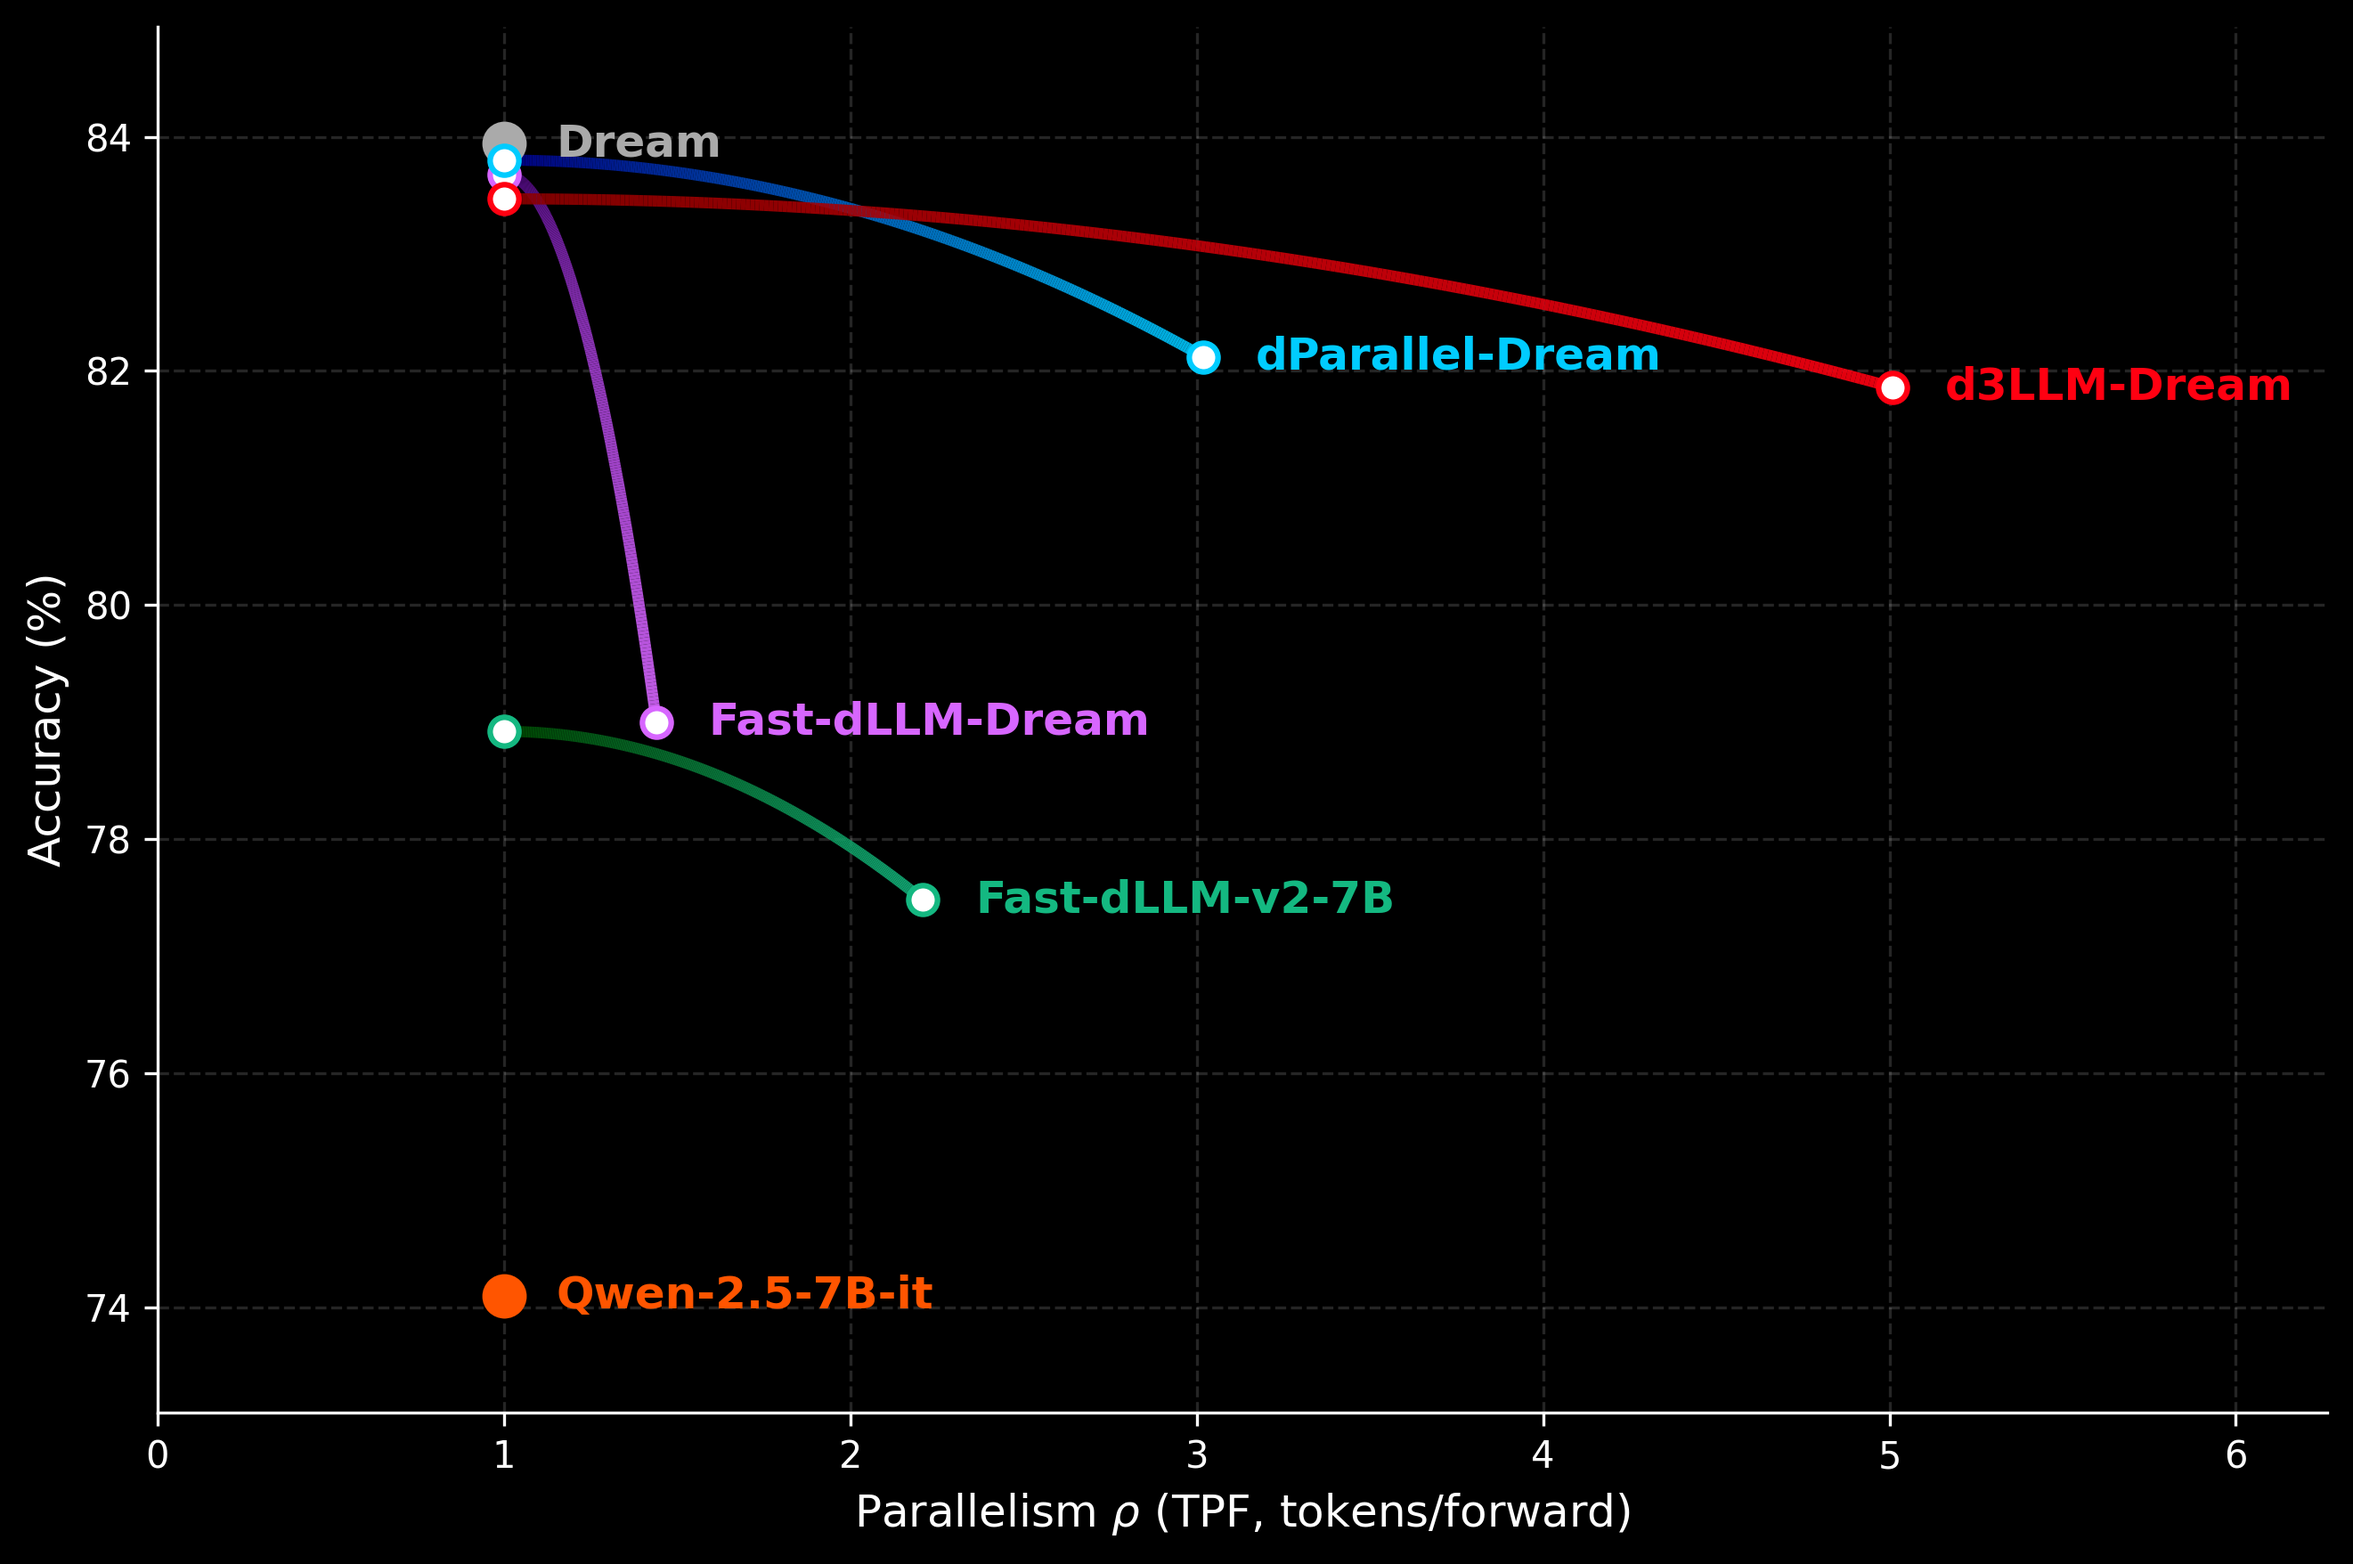
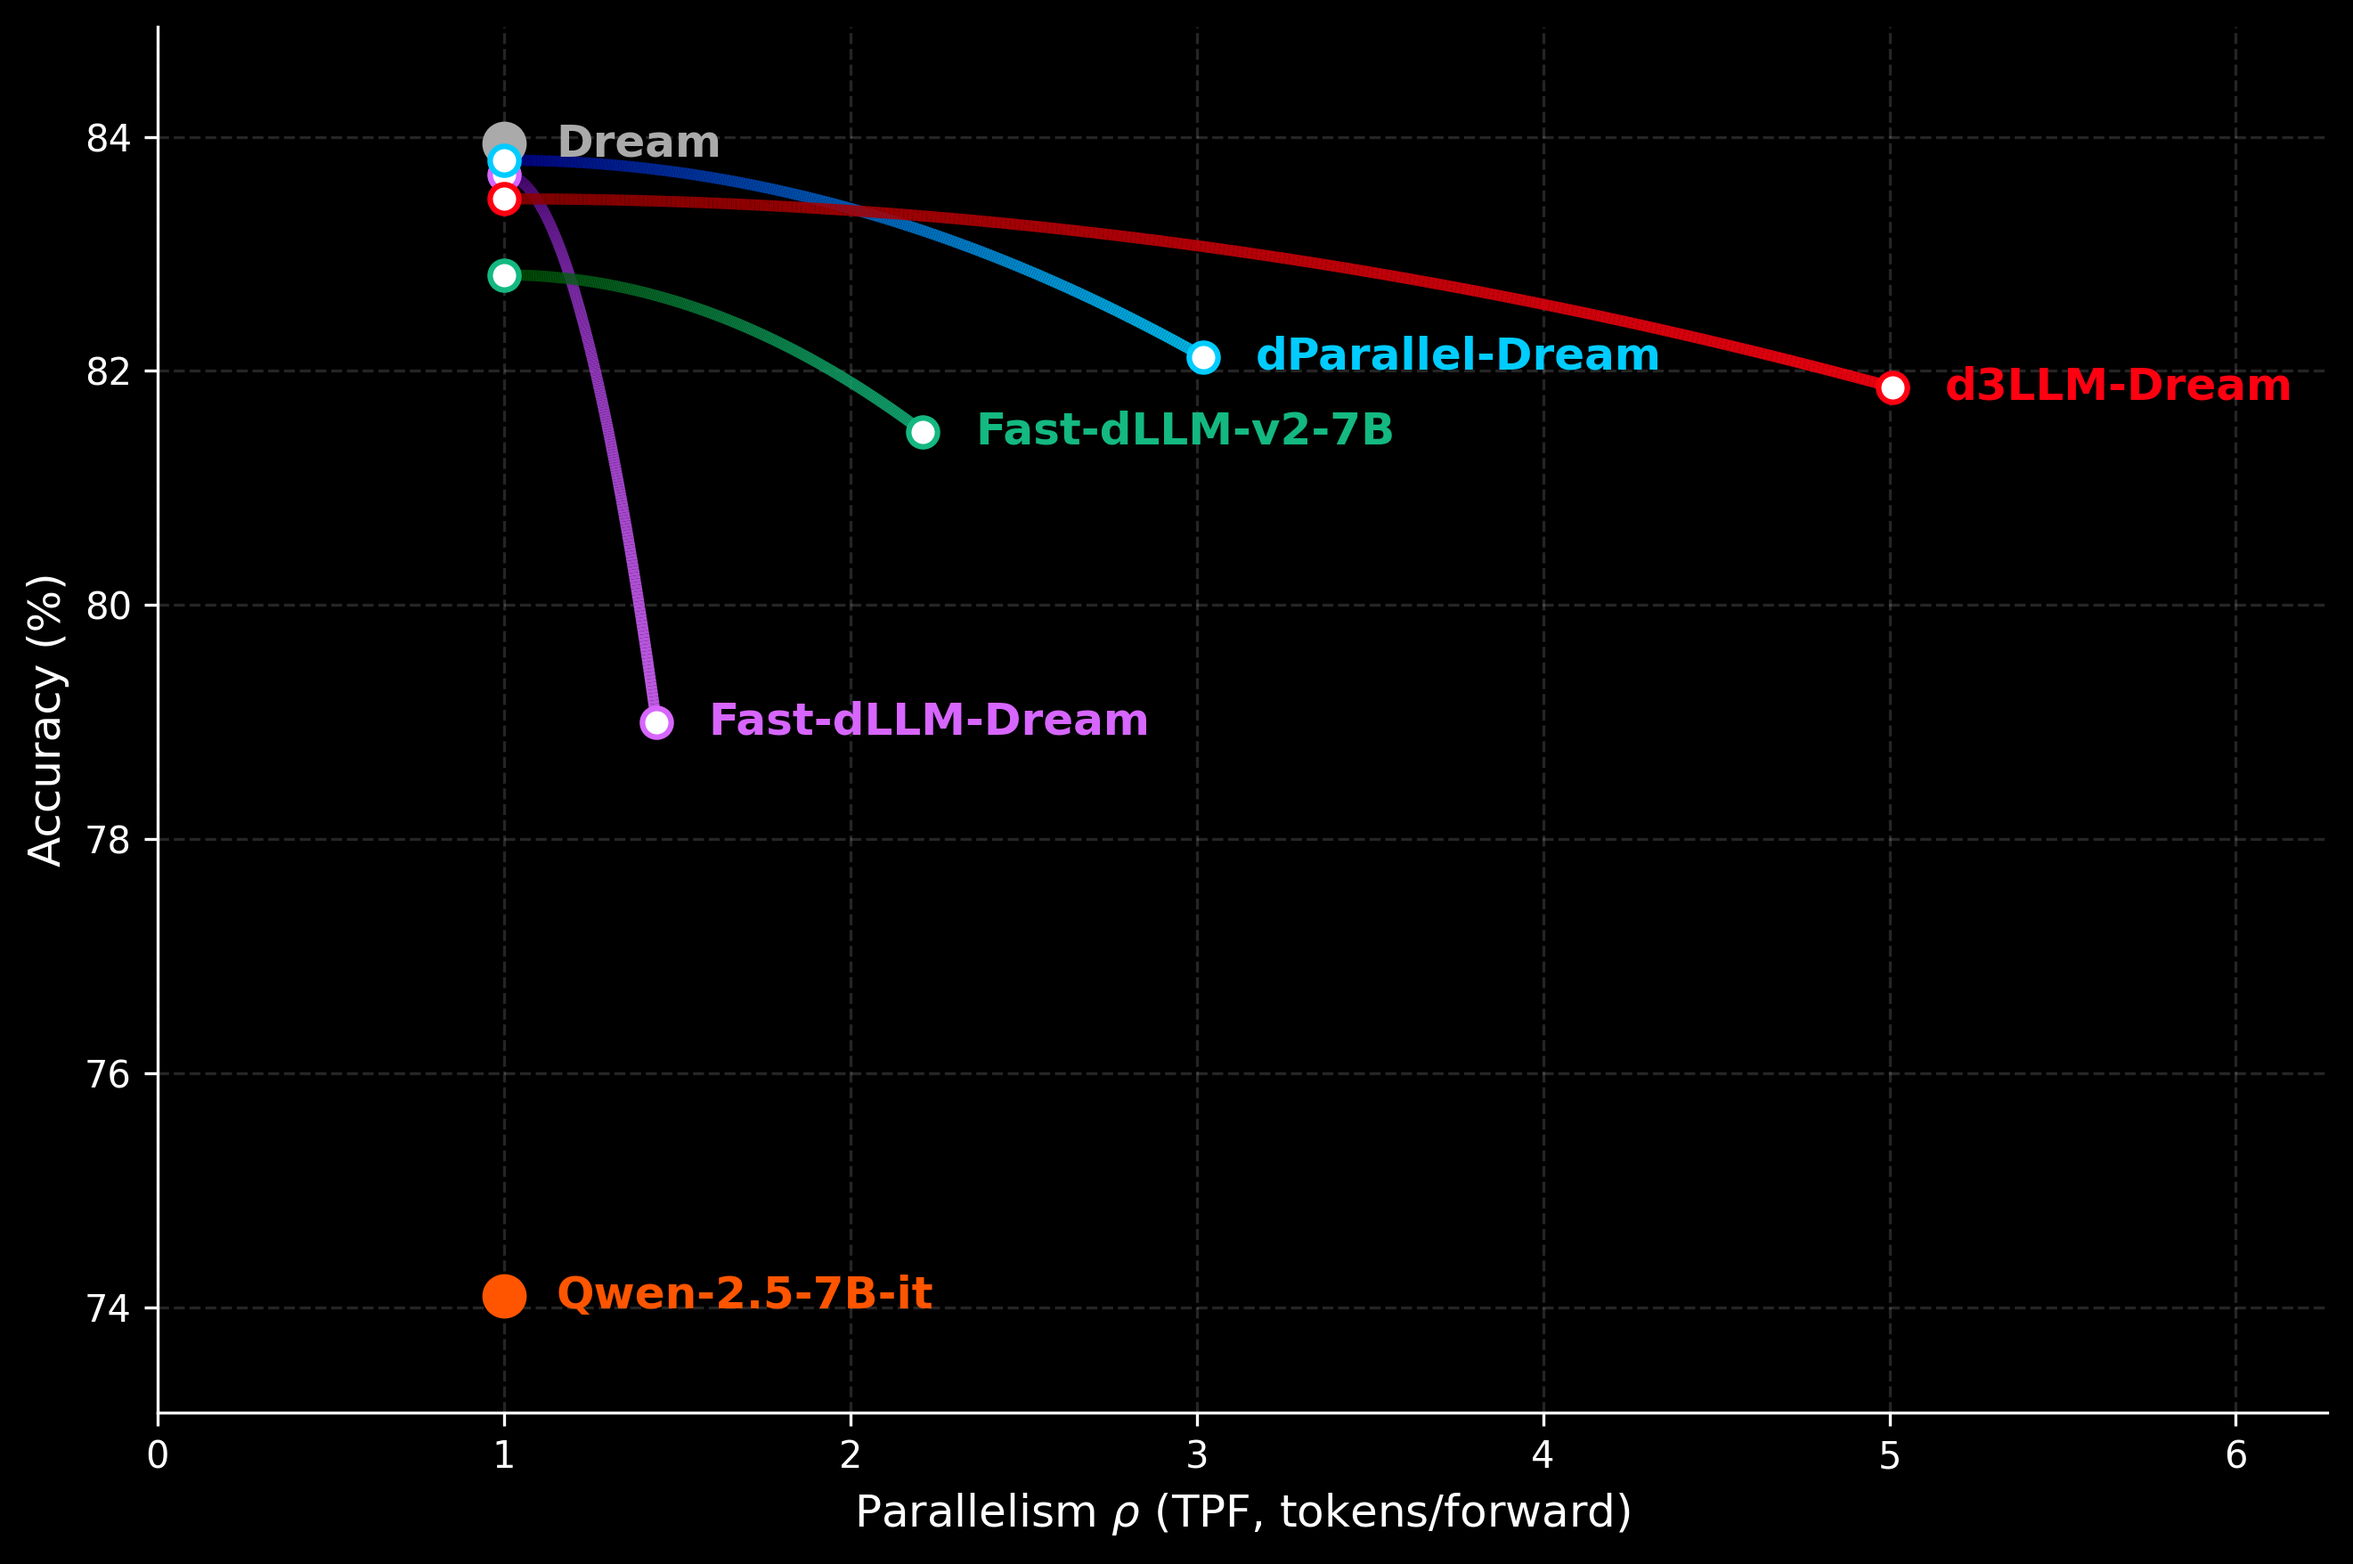
Update Fast-dllm-v2 results

diff --git a/content/blogs/text-diffusion/index.md b/content/blogs/text-diffusion/index.md
@@ -415,7 +415,7 @@ For the *Dream-7B-Instruct*, we again report speed and accuracy on GSM8K-CoT dat
 | Qwen-2.5-7B-it  | 57.32      | 50.36      | 74.10 |
 | Dream           | 13.41      | 8.32       | 83.94 |
 | Fast-dLLM-Dream | 77.25      | 51.55      | 79.00 |
-| Fast-dLLM-v2-7B | 150.01     | 109.68     | 77.48 |
+| Fast-dLLM-v2-7B | 150.01     | 109.68     | 81.48 |
 | dParallel-Dream | 168.36     | 80.23      | 82.12 |
 | **d3LLM-Dream** | **235.34** | **128.19** | **81.86** |
 
